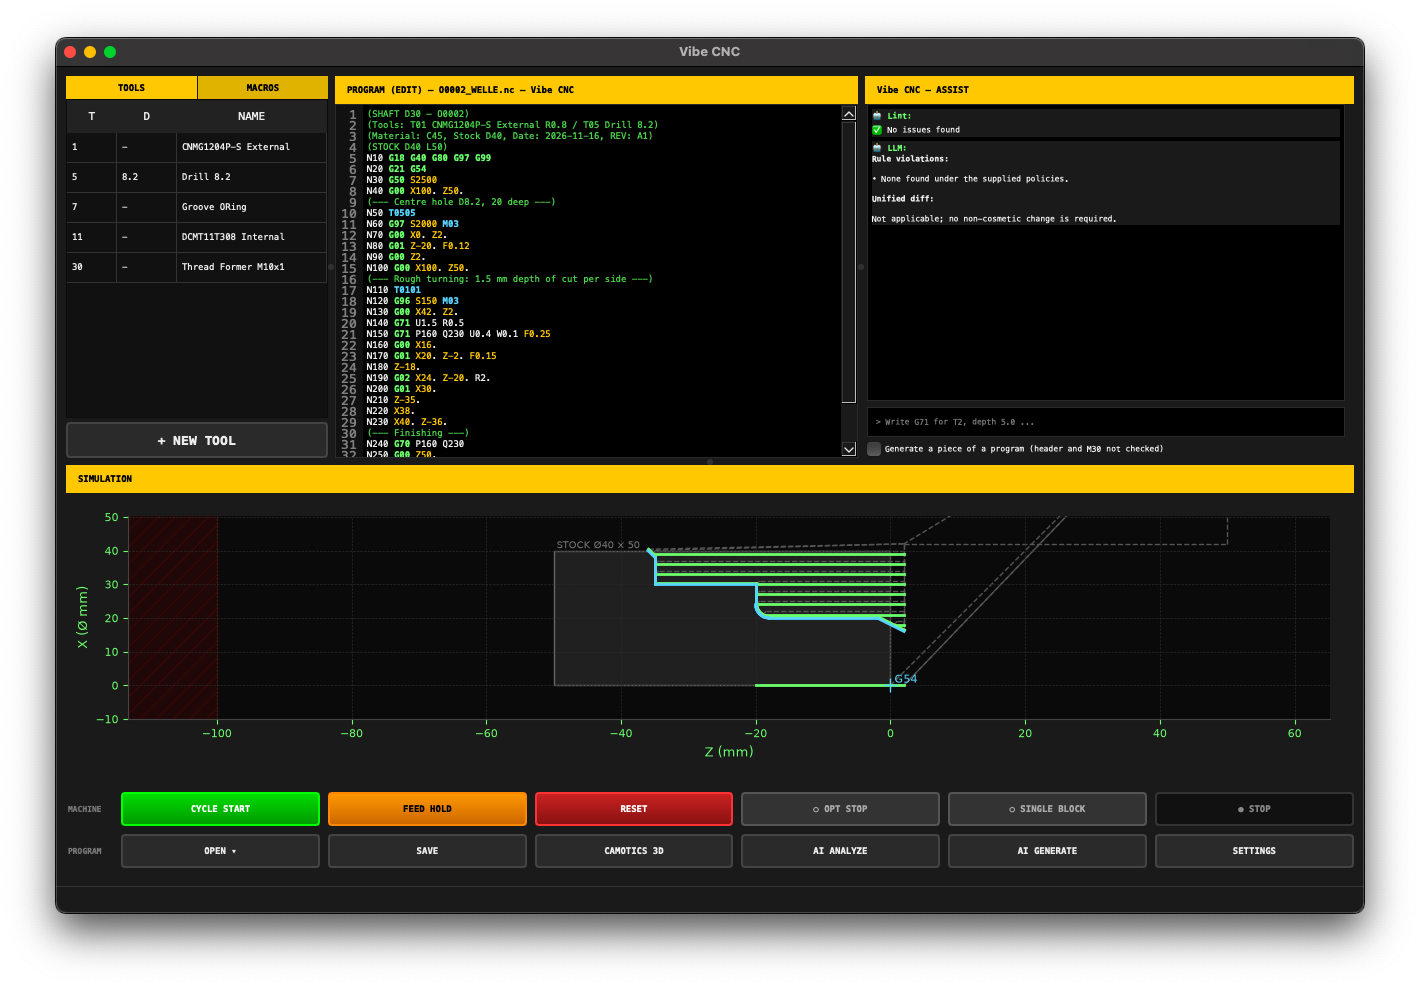
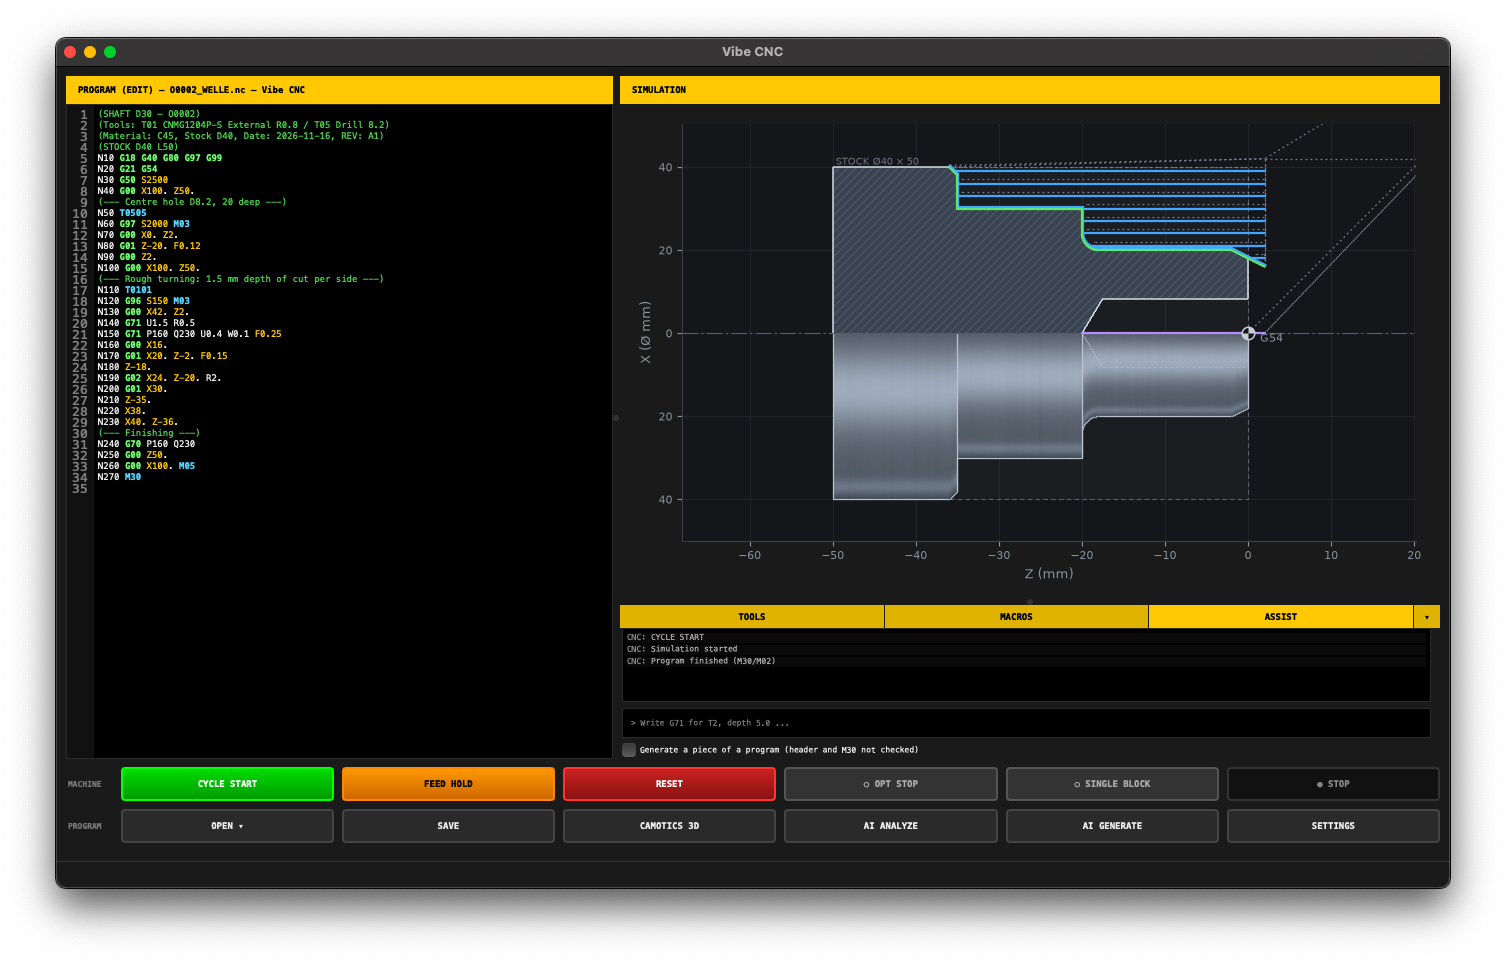
docs(readme): show the new layout and the half section
The screenshot is the window as it now is: the program beside the
simulation, the shaft O0002 finished as a half section over the dashed
blank, and the tools, macros and assist tabs below. The features list
says the stock is cut as the program runs and how the layout works, the
key table has Ctrl+J and the two mouse actions on the plot, and the
known simplifications say what the material model assumes about tools.

CONTRIBUTING.md lists tests.test_stock_model in the GUI-free suite, as
CI does.

diff --git a/README.md b/README.md
@@ -16,15 +16,20 @@ system A), with a rule-based checker and optional AI review and generation.
 > and keep a hand on feed hold. The authors accept no liability for crashes,
 > scrapped parts or injury.
 
-![Vibe CNC: a turning program in the editor, its toolpath drawn over the stock, and the linter's and the model's review in the assist pane](docs/images/vibe-cnc.png)
+![Vibe CNC: a turning program in the editor beside the simulation, which shows the finished shaft as a half section over the dashed blank, with the tools, macros and assist tabs below it](docs/images/vibe-cnc.png)
 
 ## Features
 
 - **Editor**: syntax highlighting, line numbers, find and replace,
   autocomplete, tool and macro libraries with their own editors.
 - **Simulation**: the toolpath drawn to scale and played back block by block,
-  with CYCLE START, FEED HOLD, SINGLE BLOCK and OPT STOP. Moves into the chuck
-  are reported.
+  with CYCLE START, FEED HOLD, SINGLE BLOCK and OPT STOP. The stock is cut as
+  the program runs, shown as a half section: hatched above the centre line,
+  the turned part below it. Moves ahead of the playback are drawn faint, the
+  move just made in yellow. Moves into the chuck are reported.
+- **Layout**: the program and the simulation side by side, each the full
+  height of the window; the tool and macro libraries and the assist share a
+  panel under the simulation that folds away (Ctrl+J).
 - **Cycles**: G70–G76 and the one-block cycles G90, G92 and G94 are expanded
   into the moves they make. G32 threading and G41/G42 nose radius
   compensation are drawn as well.
@@ -94,6 +99,9 @@ programs may leave the shop.
 | Space · F · Esc | Cycle start · feed hold · reset |
 | Ctrl+O · Ctrl+S | Open · save |
 | Ctrl+L | Lint only |
+| Ctrl+J | Fold or open the tools, macros and assist panel |
+| Right click on the simulation | Menu: half section on or off, fit the view |
+| Double click on the simulation | Fit the view again |
 | Ctrl+F · Ctrl+H | Find · find and replace |
 | Ctrl+Space | Autocomplete: G- and M-codes, tools after `T`, macros after `M98 P`. ↑/↓ to choose, Enter or Tab to insert, Esc to close |
 | Enter · Ctrl+Enter | In the assist box: analyse · generate |
@@ -151,6 +159,12 @@ yet, so every card says `verified = false`. Known simplifications:
 - The 45° escape after each G71/G72 pass is drawn as a rapid; the control
   makes it at cutting feed.
 - Inch input (G20) is not supported.
+- The material removed takes each tool's body as a square shoulder behind
+  its tip, on the side its tip number gives, because the tool table has no
+  insert shape. A move running down towards the chuck therefore shows a
+  gouge sooner than a real insert would cut one. Drills bore their `d_mm`
+  with a 118° point. Grooving, parting and thread tools remove nothing (the
+  table has no width), and neither do thread passes.
 
 ## Development
 

diff --git a/CONTRIBUTING.md b/CONTRIBUTING.md
@@ -30,7 +30,7 @@ python3 -m unittest tests.test_lint_engine tests.test_gcode_parser \
     tests.test_reference tests.test_arc_geometry tests.test_tool_data \
     tests.test_collision tests.test_macro_data tests.test_gcode_text \
     tests.test_review_eval tests.test_verifier tests.test_generate_eval \
-    tests.test_specs tests.test_spec_context
+    tests.test_specs tests.test_spec_context tests.test_stock_model
 
 # 2. Everything, including the Qt tests (needs requirements.txt)
 QT_QPA_PLATFORM=offscreen python -m unittest discover -s tests
